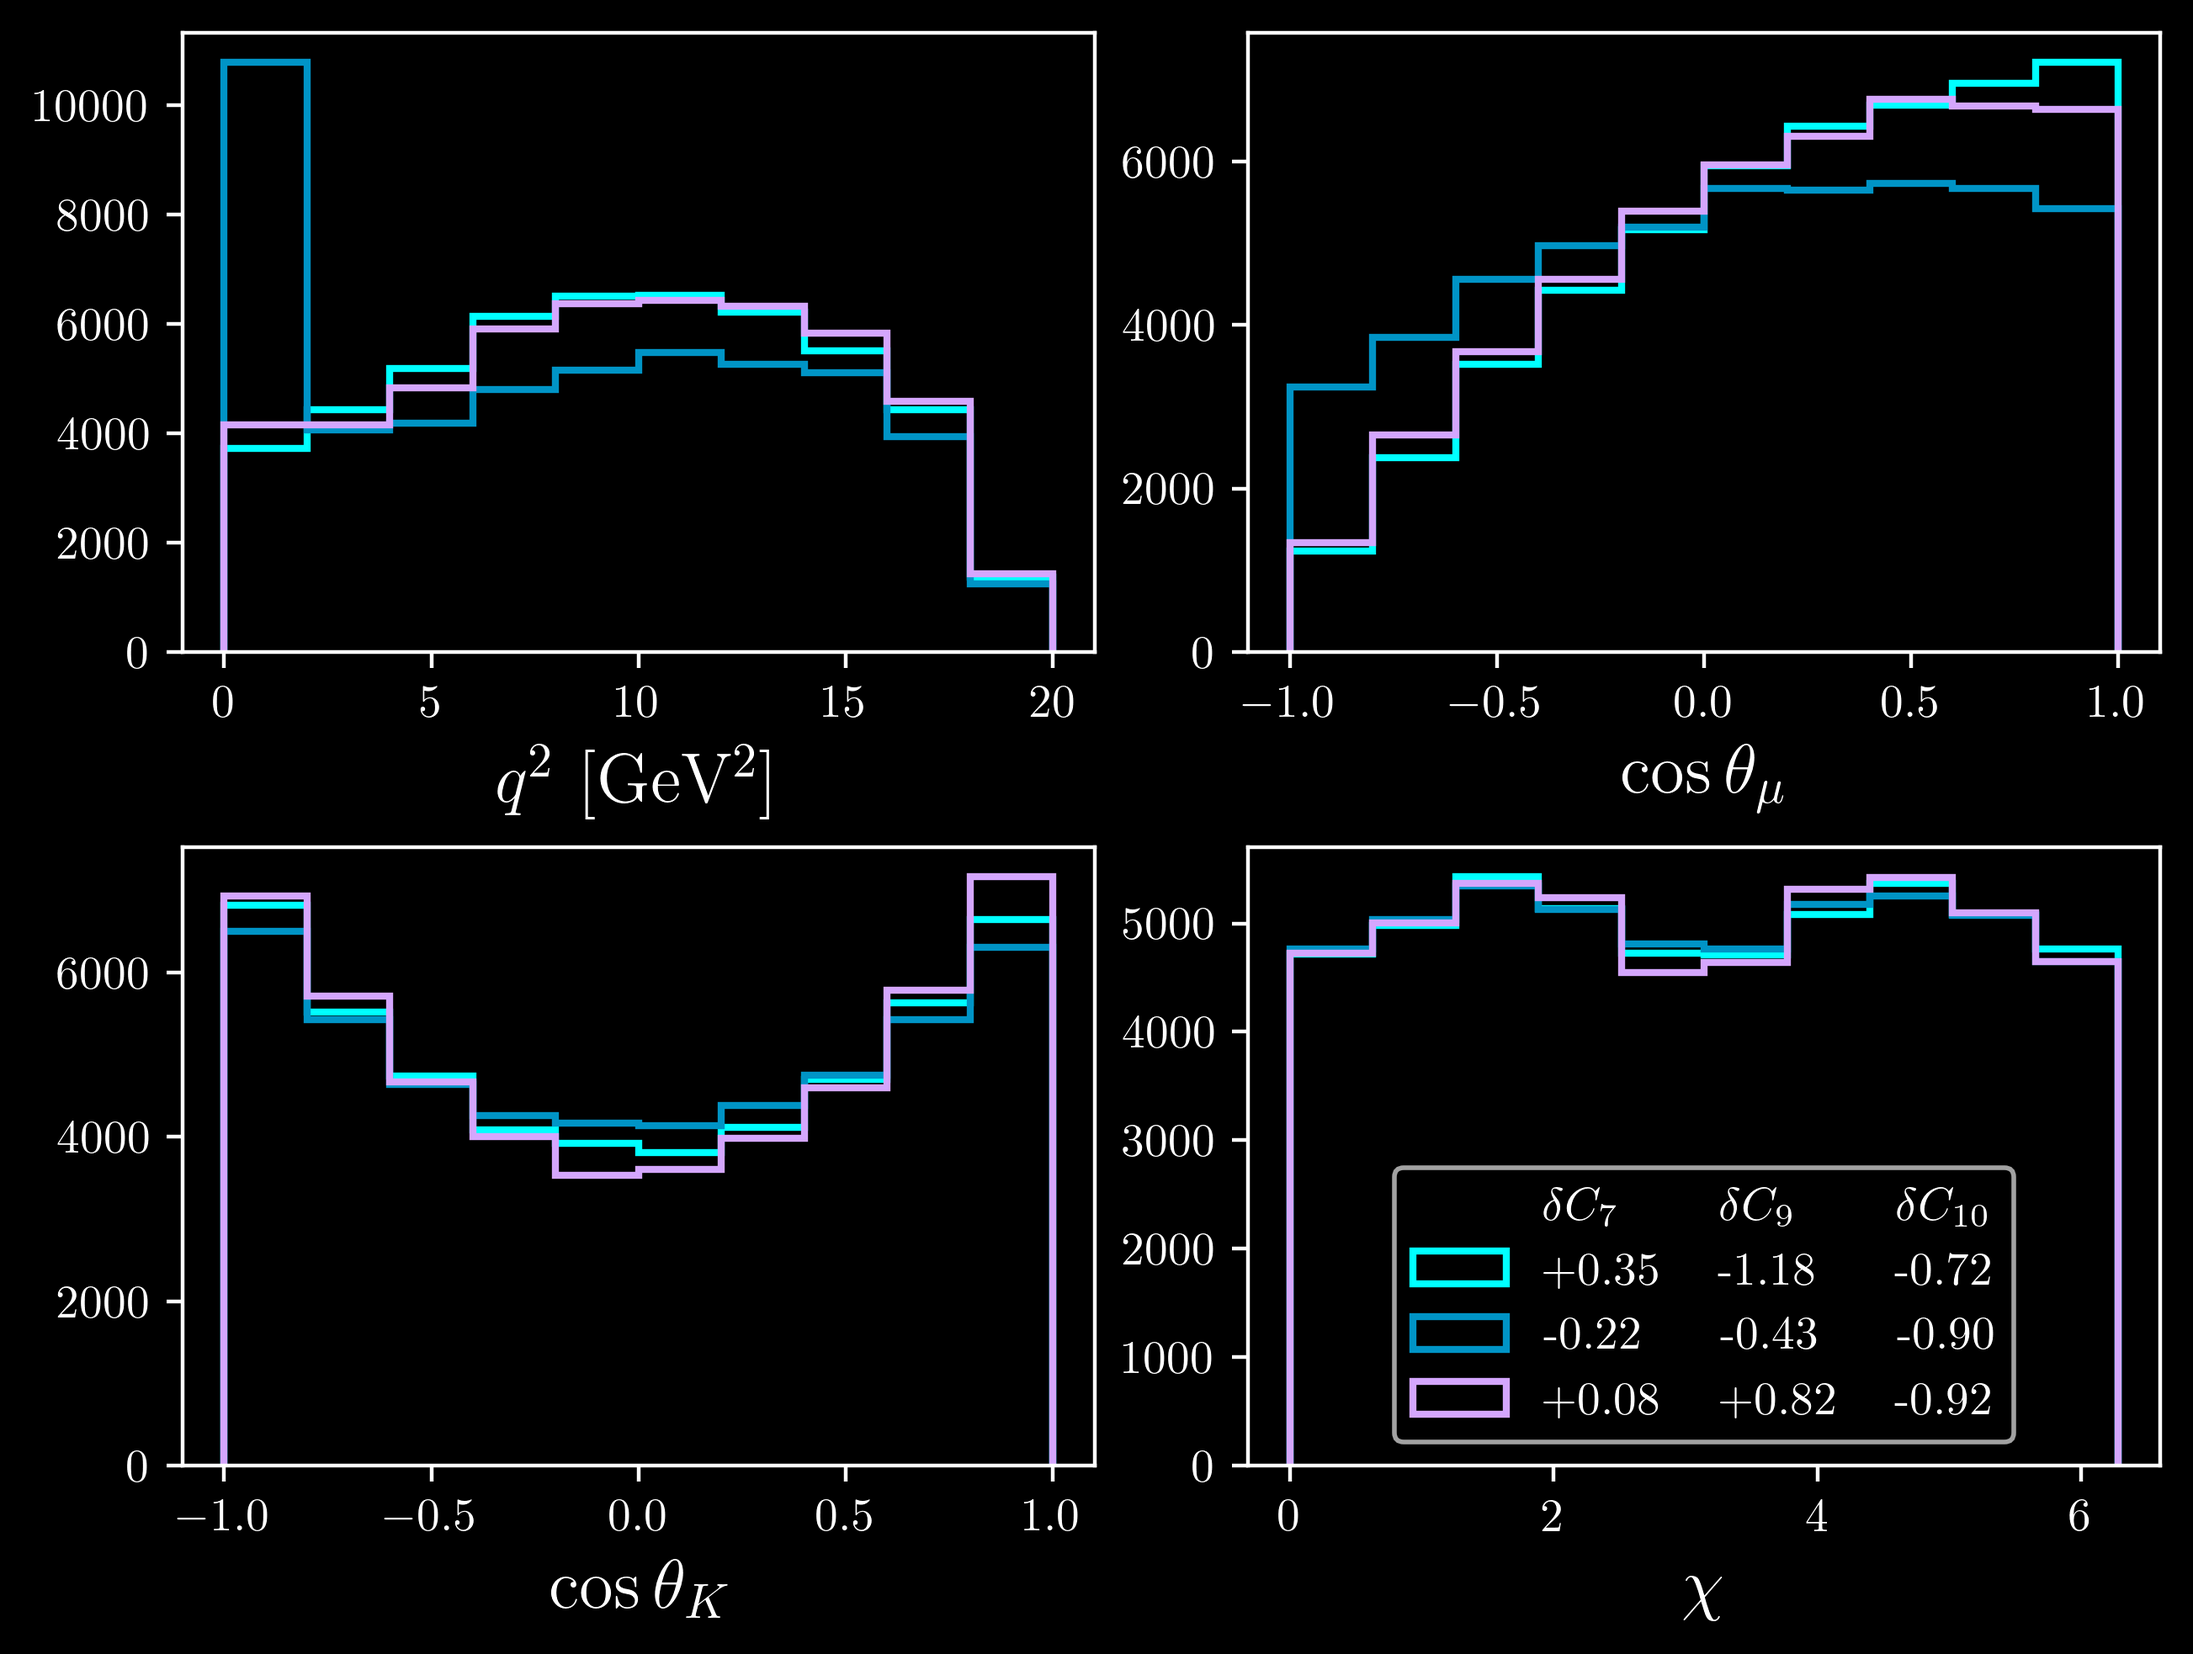
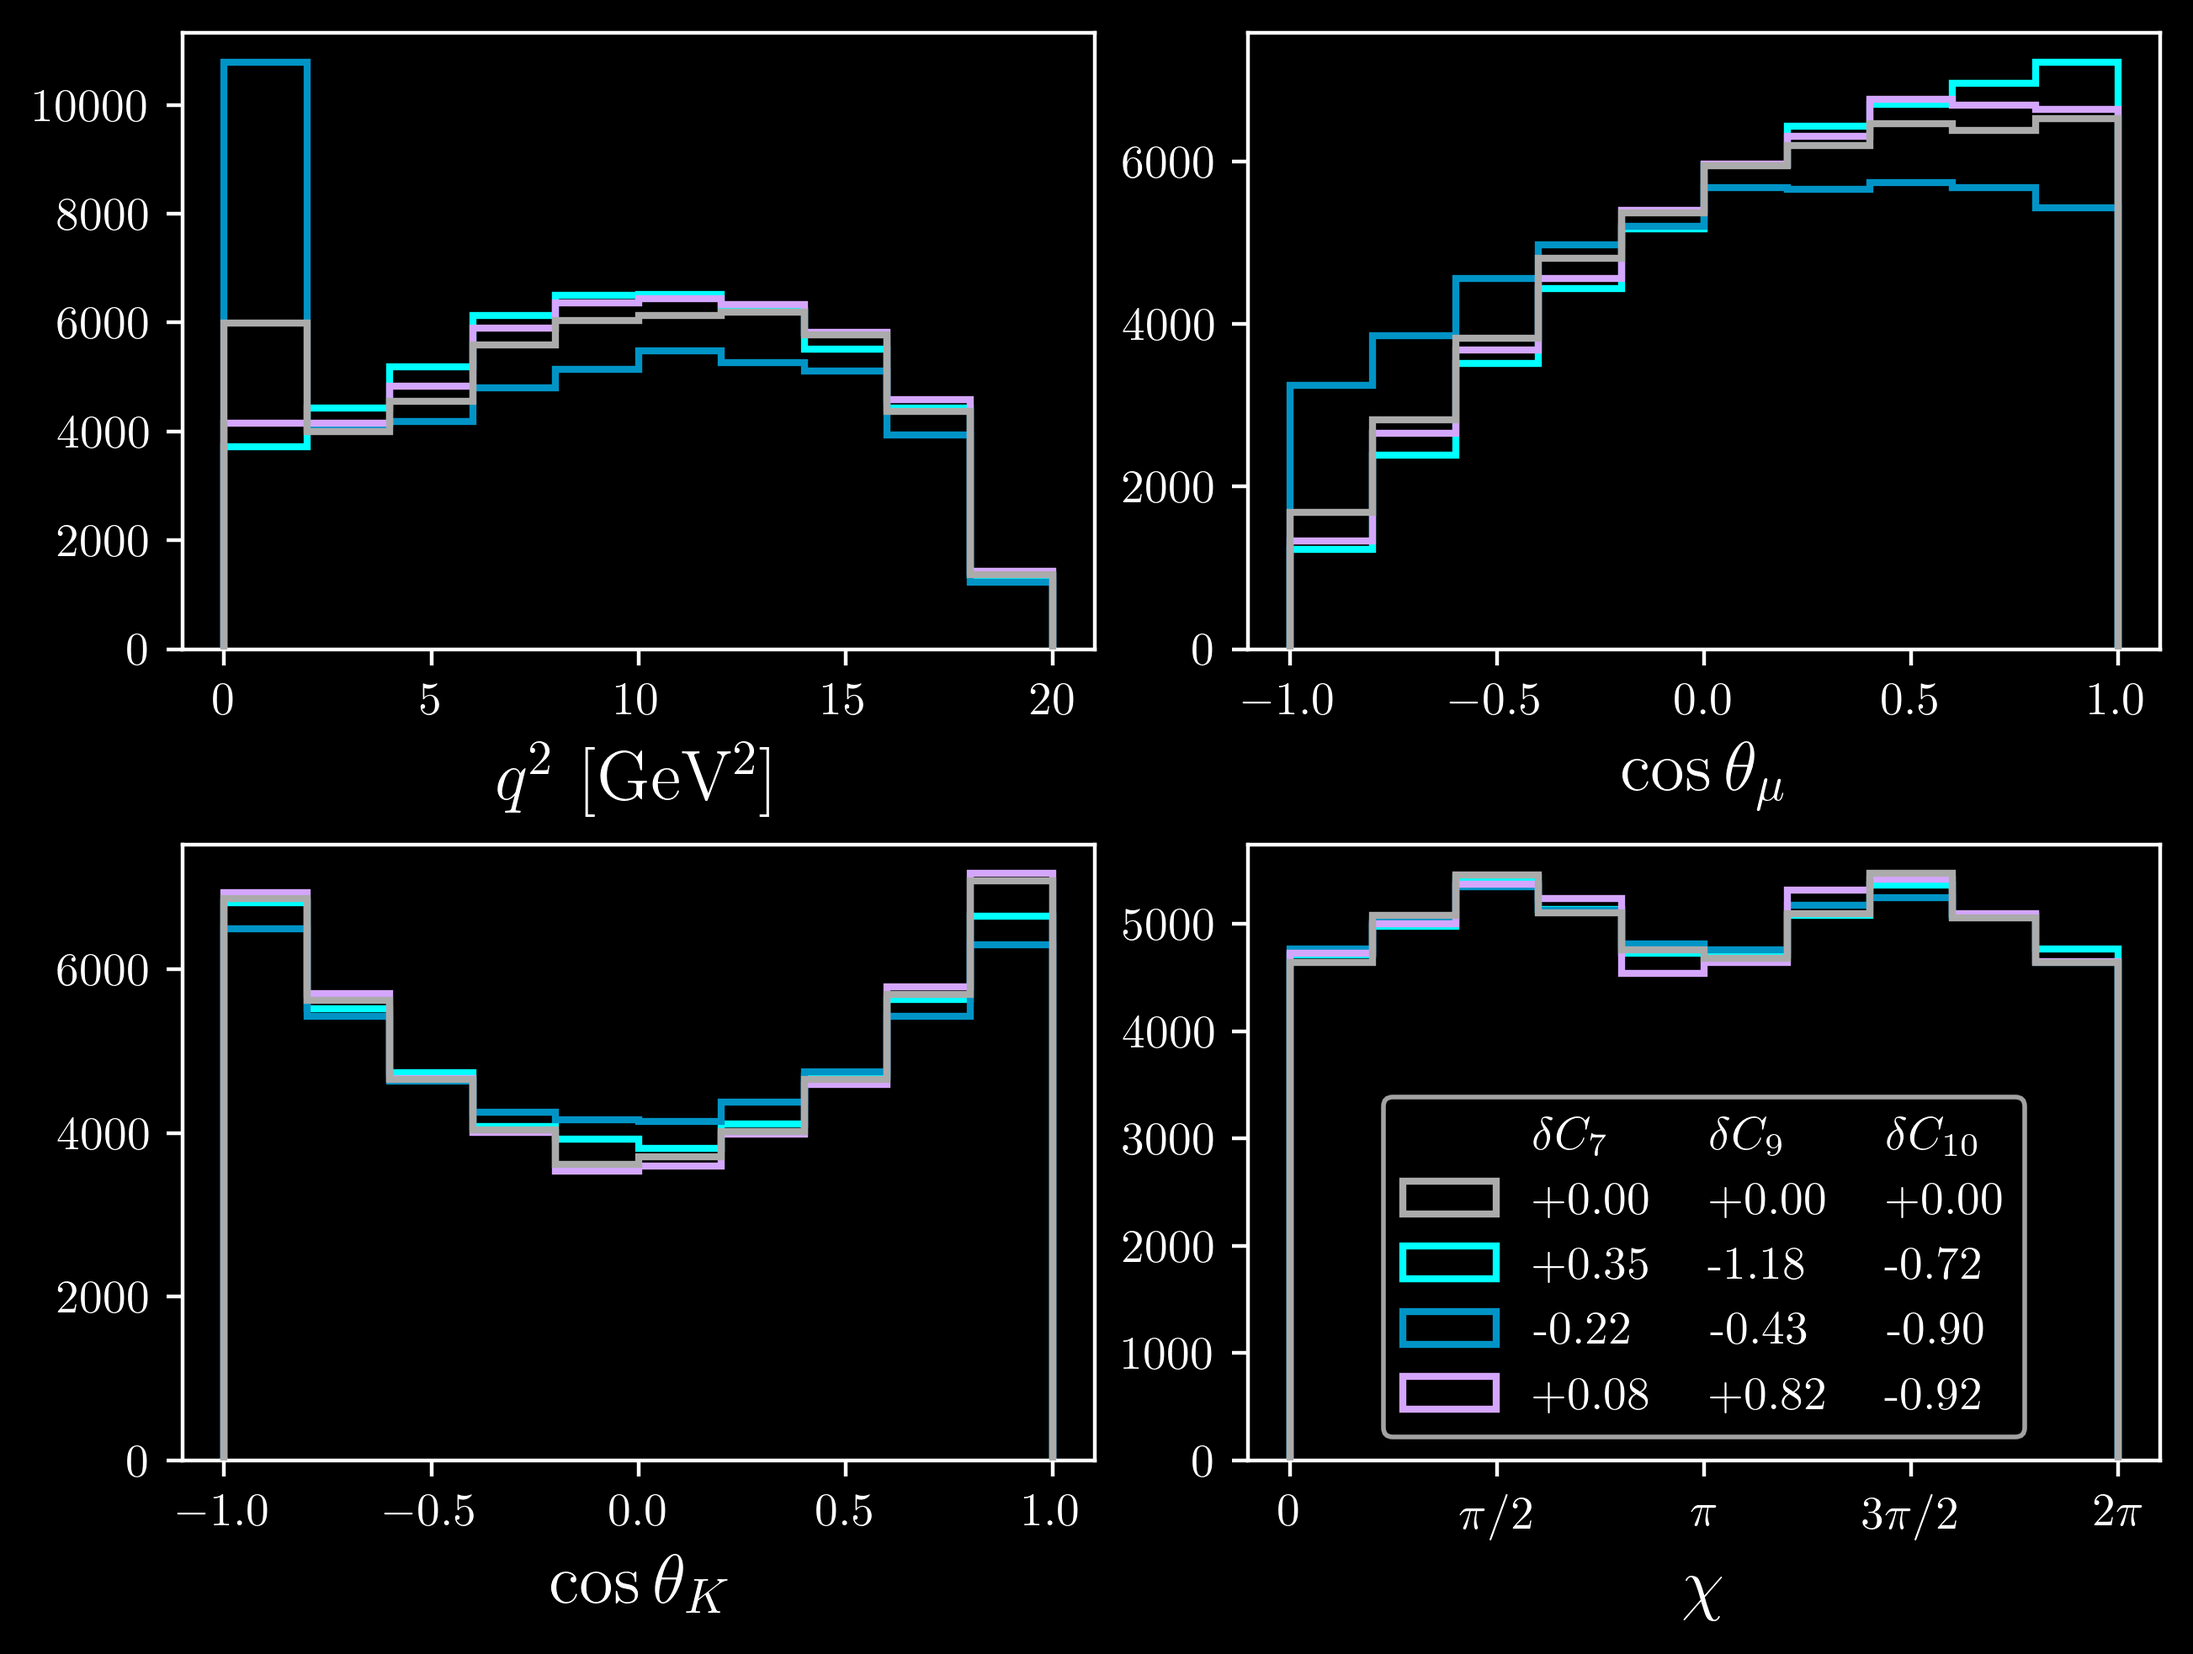
standard model added

diff --git a/scripts/visual_dist.py b/scripts/visual_dist.py
@@ -7,14 +7,31 @@ import pandas
 import skimage
 
 
+def label_to_color(dc7, dc9, dc10):
+
+    dc7_to_L = lambda dc7: float((dc7 + 0.5) * 60 + 40)
+    dc9_to_a = lambda dc9: float(dc9 * 40)
+    dc10_to_b = lambda dc10: float(dc10 * 40)
+
+    return dc7_to_L(dc7), dc9_to_a(dc9), dc10_to_b(dc10)
+
+
+def one_row_dataframe_to_series(dataframe):
+
+    assert len(dataframe) == 1
+    return dataframe.iloc[0]
+
+
 if __name__ == "__main__":
 
     data = pandas.read_parquet("data/combined_processed.parquet")
-    trials = range(100_007, 100_010)
+    trials = [-1] + list(range(100_007, 100_010))
+    var_names = {"q_squared": r"$q^2$ [GeV$^2$]", "cos_theta_mu": r"$\cos\theta_\mu$", "cos_theta_k":r"$\cos\theta_K$", "chi": r"$\chi$"}
+    hist_intervals = {"q_squared":(0, 20), "cos_theta_mu":(-1, 1), "cos_theta_k":(-1, 1), "chi":(0, 2*pi)}
+    n_bins = 10
 
     alpha = 1
     plt.style.use("dark_background")
-
     plt.rcParams.update({
         "figure.dpi": 400, 
         "text.usetex": True,
@@ -22,40 +39,28 @@ if __name__ == "__main__":
         "font.serif": "Computer Modern",
         "text.latex.preamble": r"\usepackage{array} \usepackage{tabularx}"
     })
-
-    unique_labels = data.loc[trials[0]:trials[-1], :, "gen"][["dc7", "dc9", "dc10"]].drop_duplicates()
-    print(unique_labels)
-
-    dc7_to_L = lambda dc7: (dc7 + 0.5) * 60 + 40
-    dc9_to_a = lambda dc9: dc9 * 40
-    dc10_to_b = lambda dc10: dc10 * 40
-
-    lab_colors = list(zip(dc7_to_L(unique_labels["dc7"]).astype(float), dc9_to_a(unique_labels["dc9"]).astype(float), dc10_to_b(unique_labels["dc10"]).astype(float)))
-    print(lab_colors)
-    rgb_colors = skimage.color.lab2rgb(lab_colors)
-    print(rgb_colors)
-
-    var_names = {"q_squared": r"$q^2$ [GeV$^2$]", "cos_theta_mu": r"$\cos\theta_\mu$", "cos_theta_k":r"$\cos\theta_K$", "chi": r"$\chi$"}
-
     fig, axs = plt.subplots(2,2, layout="constrained")
 
-    n_bins = 10
-    hist_intervals = {"q_squared":(0, 20), "cos_theta_mu":(-1, 1), "cos_theta_k":(-1, 1), "chi":(0, 2*pi)}
-
-    # $\delta C_7$ & $\delta C_9$ & $\delta C_{10}$ \\
-
     for var, ax in zip(["q_squared", "cos_theta_mu", "cos_theta_k", "chi"], axs.flat):
-
-        ax.hist([], label=r"\begin{tabularx}{4cm}{ >{\raggedright\arraybackslash}X >{\raggedright\arraybackslash}X >{\raggedright\arraybackslash}X } $\delta C_7$ & $\delta C_9$ & $\delta C_{10}$ \\ \end{tabularx}", alpha=0)
         
-        for trial, color, labels in zip(trials, rgb_colors, unique_labels.iterrows()):
-            _, labels = labels
-            hist_label = r"\begin{tabularx}{4cm}{ >{\raggedright\arraybackslash}X >{\raggedright\arraybackslash}X >{\raggedright\arraybackslash}X } " +  f"{labels["dc7"]:+10.2f} & {labels["dc9"]:+10.2f} & {labels["dc10"]:+10.2f} \\ " +  r"\end{tabularx}" 
-            # hist_label = table #f"{r"$\delta C_7$: ":50}" + f"{labels["dc7"]:>+5.2f}\n" + f"{r"$\delta C_7$: ":<20}" + f"{labels["dc9"]:>+5.2f}\n" + f"{r"$\delta C_{10}$: ":<20}" + f"{labels["dc10"]:>+5.2f}"
-            ax.hist(data.loc[trial, :, "gen"][var], bins=10, range=hist_intervals[var], color=color, histtype="step", linewidth=1.5, label=hist_label, alpha=alpha)
+        legend_title = r"\begin{tabularx}{4cm}{ >{\raggedright\arraybackslash}X >{\raggedright\arraybackslash}X >{\raggedright\arraybackslash}X } $\delta C_7$ & $\delta C_9$ & $\delta C_{10}$ \\ \end{tabularx}"
+        ax.hist([], label=legend_title, alpha=0)
+
+        for trial in trials:
+
+            trial_data = data.loc[trial, :, "gen"]
+
+            label = one_row_dataframe_to_series(trial_data[["dc7", "dc9", "dc10"]].drop_duplicates())
+            lab_color = label_to_color(**label)
+            rgb_color = skimage.color.lab2rgb(lab_color)
+
+            hist_label = r"\begin{tabularx}{4cm}{ >{\raggedright\arraybackslash}X >{\raggedright\arraybackslash}X >{\raggedright\arraybackslash}X } " +  f"{label["dc7"]:+10.2f} & {label["dc9"]:+10.2f} & {label["dc10"]:+10.2f} \\ " +  r"\end{tabularx}" 
+            zorder = 0 if trial != -1 else 5
+            ax.hist(trial_data[var], bins=n_bins, range=hist_intervals[var], color=rgb_color, histtype="step", linewidth=1.5, label=hist_label, alpha=alpha, zorder=zorder)
 
         ax.set_xlabel(var_names[var], fontsize=15)
-
+        if var == "chi": ax.set_xticks([0, pi/2, pi, 3*pi/2,  2*pi], [r"$0$", r"$\pi/2$", r"$\pi$", r"$3\pi/2$", r"$2\pi$"])
+        
     axs.flat[3].legend(ncols=1)
 
     plt.savefig("data/plots/distribution.png", bbox_inches="tight")

diff --git a/kekcc/run.py b/kekcc/run.py
@@ -73,18 +73,18 @@ if __name__ == "__main__":
 
     ### Parameters ###
     e_or_mu = "mu"
-    trial_range = range(-1, 0) # each trial corresponds with a wilson coefficient sample
-    sub_trial_range = range(0, 2) # split up large jobs (repeats per trial)
-    events_per_sub_trial = 25_000
-    # path_to_wilson_coefficient_samples = Path("../data/sampled_wilson_coefficients.parquet")
+    trial_range = range(210, 310) # each trial corresponds with a wilson coefficient sample
+    sub_trial_range = range(0, 1) # split up large jobs (repeats per trial)
+    events_per_sub_trial = 1_000
+    path_to_wilson_coefficient_samples = Path("../data/sampled_wilson_coefficients.parquet")
     path_to_output_dir = Path("../data/kekcc_output/")
     ###################
 
-    # sampled_wilson_coefficients_dataframe = read_parquet(path_to_wilson_coefficient_samples)
+    sampled_wilson_coefficients_dataframe = read_parquet(path_to_wilson_coefficient_samples)
 
     for trial, sub_trial in product(trial_range, sub_trial_range):
 
-        metadata = Series({"dc7":0.0, "dc9":0.0, "dc10":0.0}) # get_wilson_coefficients_series(sampled_wilson_coefficients_dataframe, trial)
+        metadata = get_wilson_coefficients_series(sampled_wilson_coefficients_dataframe, trial) # Series({"dc7":0.0, "dc9":0.0, "dc10":0.0}) 
         metadata["trial"] = trial
         metadata["sub_trial"] = sub_trial
         metadata["channel"] = e_or_mu

diff --git a/kekcc/root_to_parquet.py b/kekcc/root_to_parquet.py
@@ -27,7 +27,7 @@ def open_output_root_file(path, tree_names=["gen", "det"]):
 
 if __name__ == "__main__":
 
-    data_dir = pathlib.Path("data/kekcc_output/2025-12-23/")
+    data_dir = pathlib.Path("data/kekcc_output/2025-12-31/")
     list_of_data_file_paths = list(data_dir.glob("*.root"))
 
     for path in (pbar:=tqdm.tqdm(list_of_data_file_paths)):
